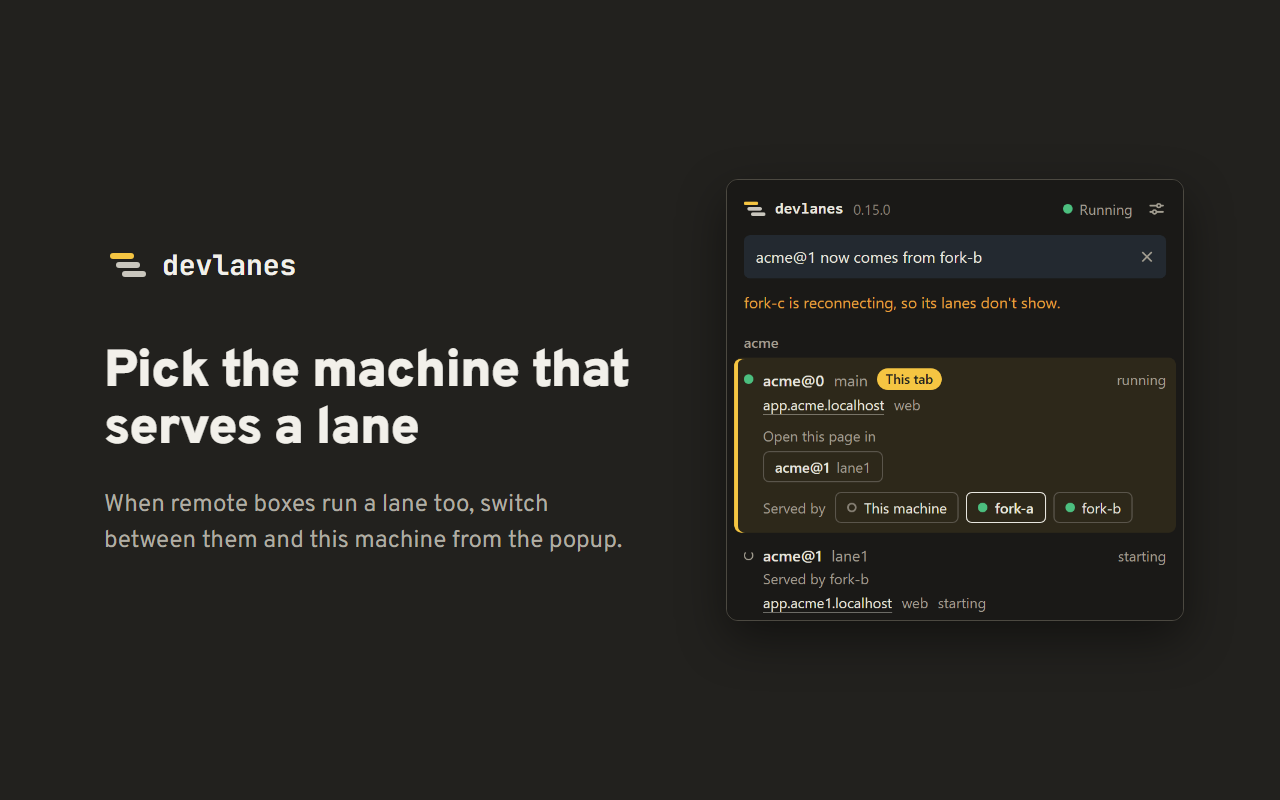
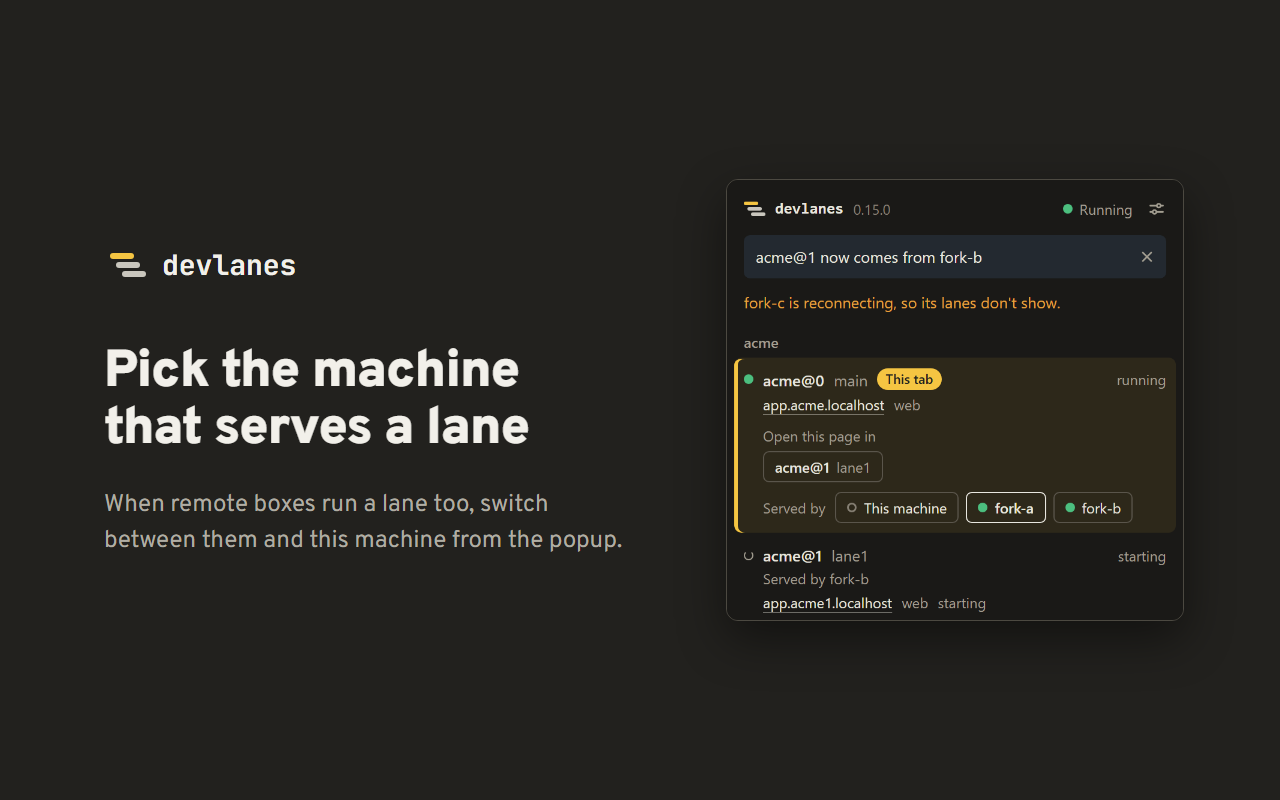
Tighten the store image copy

Changed region(s): [[0.0625, 0.5, 0.4375, 0.5625], [0.4062, 0.4375, 0.5, 0.5]]

diff --git a/scripts/store-images/slides.html b/scripts/store-images/slides.html
@@ -90,6 +90,7 @@
         font-weight: 900;
         letter-spacing: -0.02em;
         margin-bottom: 28px;
+        text-wrap: balance;
       }
       p {
         font-size: 24px;
@@ -315,10 +316,10 @@
     <section id="lanes" class="slide light">
       <div class="text">
         <div class="brand"><img src="../../public/assets/mark-on-light.svg" alt="" />devlanes</div>
-        <h1>Every lane of every project, with its URLs</h1>
+        <h1>Every lane of every project and its URLs</h1>
         <p>
-          The popup lists the lanes devlanes runs. Open the page you are on in another lane, with
-          the same path, query and hash.
+          The popup lists the lanes devlanes runs. It opens the page you are on in another lane and
+          keeps the path, query and hash.
         </p>
       </div>
       <div class="popup"><img src="img/local-light.png" alt="" /></div>
@@ -336,7 +337,7 @@
     <section id="logins" class="slide light">
       <div class="text">
         <div class="brand"><img src="../../public/assets/mark-on-light.svg" alt="" />devlanes</div>
-        <h1>Sign in once, use it on every lane</h1>
+        <h1>Test logins on every lane</h1>
         <p>
           A test login saved on one lane shows in a menu on every lane of the same project. The
           toolbar badge shows the tab's lane number.
@@ -382,7 +383,8 @@
         <div class="brand"><img src="../../public/assets/mark-on-sign.svg" alt="" />devlanes</div>
         <h1>Your lanes in the browser</h1>
         <p>
-          Open the page you are on in another lane, and fill the test logins you saved on one lane.
+          Open the page you are on in another lane. Fill a test login saved on one lane into the
+          others.
         </p>
       </div>
       <div class="popup"><img src="img/local-light.png" alt="" /></div>
